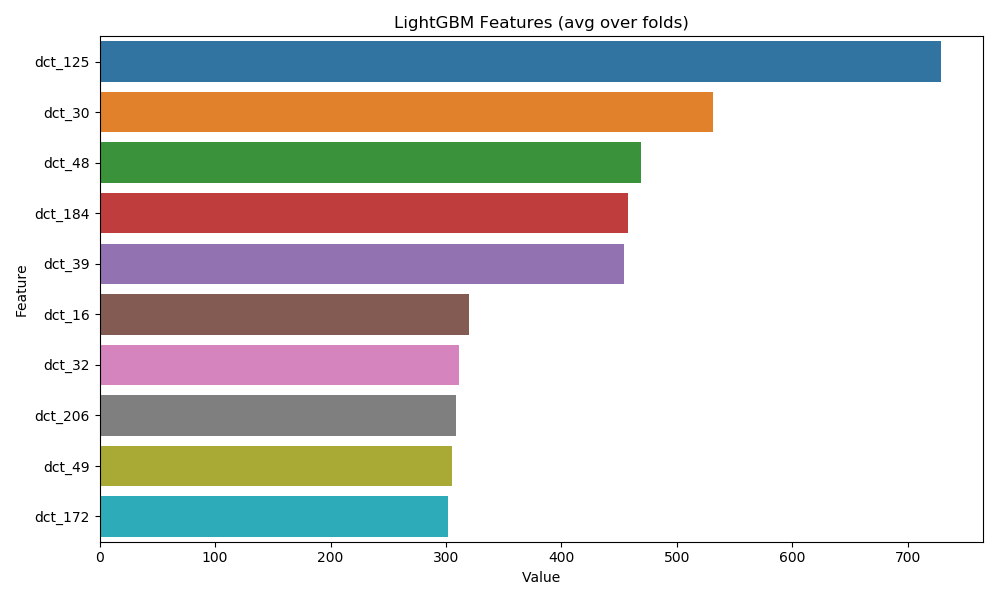
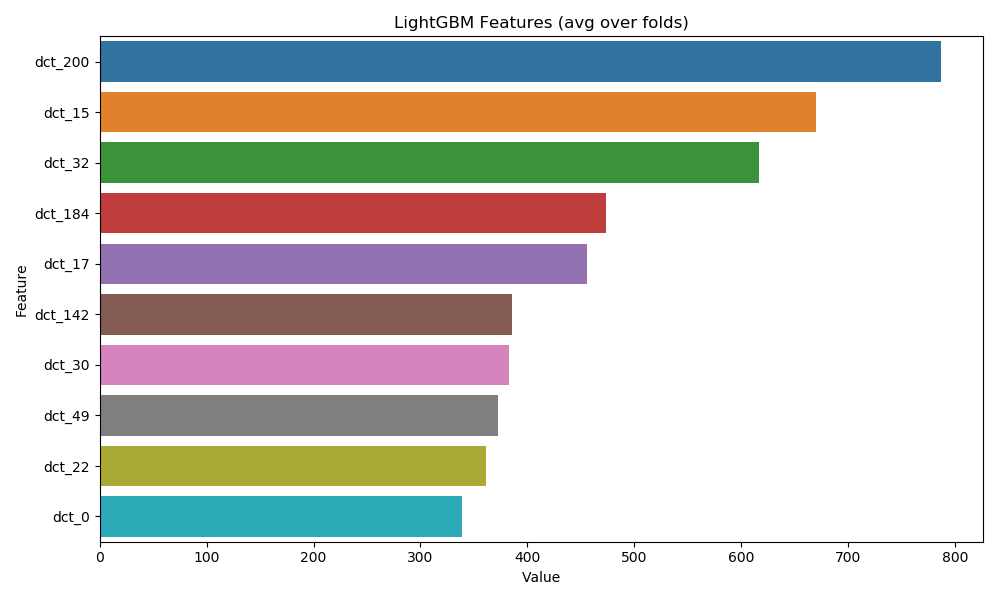
LightGBM変更

diff --git a/pythonFile/lightGBM_BaseLine.py b/pythonFile/lightGBM_BaseLine.py
@@ -30,11 +30,11 @@ params = {
     'objective': 'multiclass',
     'metric': {'multi_error'},
     'num_class': 20,
-    'learning_rate': 0.01,
-    'num_leaves': 32,
+    'learning_rate': 0.1,
+    'num_leaves': 15,
     'min_data_in_leaf': 10,
     'num_iteration': 200,
-    'verbose': 20
+    'verbose': -1
 }
 
 # train
